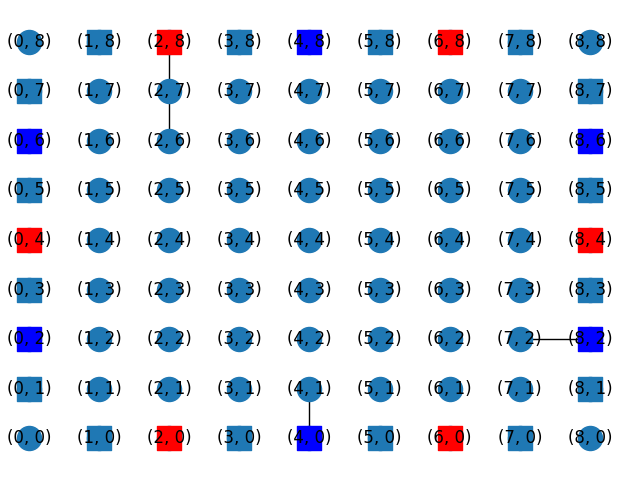
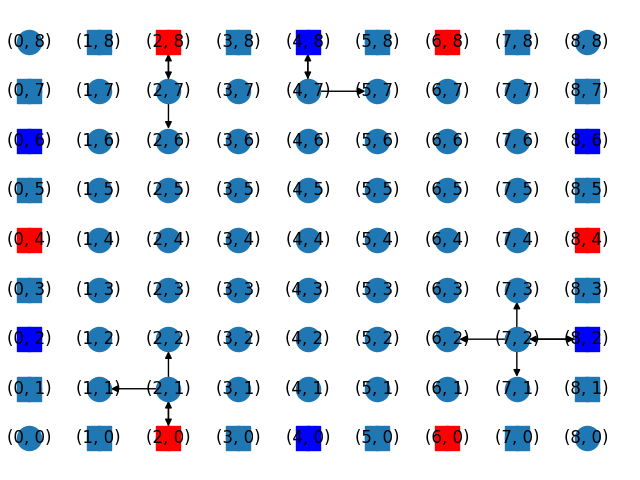
Scoring

diff --git a/src/scoring.py b/src/scoring.py
@@ -3,53 +3,50 @@ from board import Board
 from tile import Tile
 
 def calculate_score(G, board_type = None):
+    if board_type is None:
+        board_type = 'CLASSIC'
     score = 0
-    road_len = len(longest_path(G, 'road'))
-
-    rail_len= len(longest_path(G, 'rail'))
-    connected_group = score_connected_exit_groups(G)
-    mid_tiles= count_tiles_around_point(G, (4,4))
-    print(f"{road_len}:{rail_len}:{connected_group}:{mid_tiles}")
-    score = road_len + rail_len + connected_group + mid_tiles
+    score += longest_path_len(G, 'road')
+    score += longest_path_len(G, 'rail')
+    score += tiles_in_grid(G, (4,4))
+    score += connected_exits(G)
+    score -= unconnected_edges(G)
     return score
 
-def longest_path(graph, route_type):
-    # NOT WORKING (ALWAYS RETURNS 0)
+def longest_path_len(G, connection_type):
     longest_path = []
-    filtered_graph = nx.Graph([(u, v, d) for u, v, d in graph.edges(data=True) if d.get('type') == route_type])
-    
-    valid_nodes = [node for node in filtered_graph.nodes if 1 <= node[0] <= self.size and 1 <= node[1] <= self.size]
-    def dfs(node, current_path):
-        nonlocal longest_path
+
+    def dfs(node, current_path, visited):
+        visited.add(node)
         current_path.append(node)
+
+        for n in G.neighbor(node):
+            if n not in visited and G[node][n]['type'] == connection_type and node in G.neighbors(n) and G[n][node]['type'] == connection_type:
+                dfs(n, current_path, visited)
+
+        nonlocal longest_path
         if len(current_path) > len(longest_path):
             longest_path = current_path.copy()
-        for neighbor in filtered_graph.neighbors(node):
-            if neighbor in valid_nodes and neighbor not in current_path:
-                dfs(neighbor, current_path)
+
         current_path.pop()
-    
-    for node in valid_nodes:
-        dfs(node, [])
-    return longest_path
+        visited.remove(node)
 
-def score_connected_exit_groups(graph):
-    exit_nodes = [node for node, data in graph.nodes(data=True) if data.get('exit')]
-    exit_subgraph = graph.subgraph(exit_nodes)
-    connected_components = list(nx.connected_components(exit_subgraph))
-    group_sizes = [len(component) for component in connected_components]
+    for node in G.nodes:
+        dfs(node, [], set())
 
-    score = sum([(n-1) * 4 + (1 if n == 12 else 0) for n in group_sizes])
-    return score
+    return len(longest_path)
 
-def count_tiles_around_point(graph, point):
-    # NOT WORKING (ALWAYS RETURNS 9)
-    x_pos,y_pos = point
-    tile_count = 0
+def tiles_in_grid(G, pos):
+    x,y = pos
+    count = 0
+    for i in range(x - 1, x + 2):
+        for j in range(y - 1, y + 2):
+            if G.has_node((i,j)) and G.nodes[(i,j)].get('tile'):
+                count += 1
+    return count
 
-    for x in range(x_pos -1, x_pos + 2):
-        for y in range(y_pos -1, y_pos + 2):
-            if (x, y) in graph.nodes and 'tile' in graph.nodes[(x, y)]:
-                tile_count += 1
+def unconnected_edges(G):
+    pass
 
-    return tile_count
+def connected_exits(G):
+    pass

diff --git a/src/board.py b/src/board.py
@@ -11,7 +11,7 @@ class Board:
         'EPIC' : 11
         }
         self.size = BOARDS[board_type if board_type else 'CLASSIC']
-        self.graph = nx.Graph()
+        self.graph = nx.DiGraph()
         self.init_board()
 
     def init_board(self):
@@ -127,5 +127,6 @@ class Board:
 
             neighbour_exit = self.graph.nodes[neighbour_pos]['tile'].exits[direction]
             
+            self.graph.add_edge(pos, neighbour_pos, type=exit_type)
             if neighbour_exit == exit_type:
-                self.graph.add_edge(pos, neighbour_pos, type=exit_type)
+                self.graph.add_edge(neighbour_pos, pos, type=exit_type)
